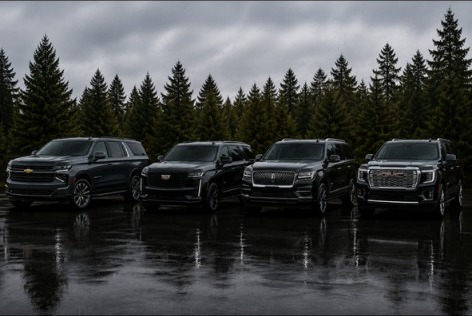
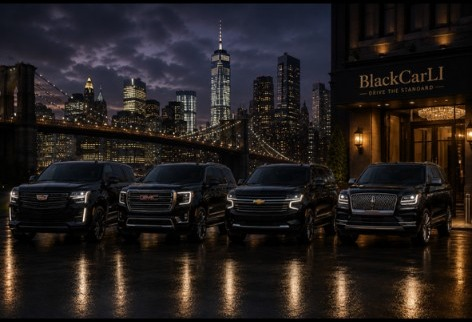
Add live address autocomplete, fix footer service links, refresh fleet imagery
- New /api/geocode route proxies OpenStreetMap Nominatim so the quote
  form's pickup/dropoff fields now suggest real addresses as you type
- Footer service links now deep-link to the matching section on
  /services (e.g. Weddings & Events -> /services#weddings-events)
  instead of all pointing at the generic /services URL
- Swapped in the client's newly provided branded fleet lineup photos
  for the sedan and SUV cards

diff --git a/src/components/AddressInput.tsx b/src/components/AddressInput.tsx
@@ -1,0 +1,114 @@
+"use client";
+
+import { useEffect, useRef, useState } from "react";
+import { MapPin, Loader2 } from "lucide-react";
+
+type Suggestion = { id: number; label: string };
+
+export default function AddressInput({
+  name,
+  value,
+  onChange,
+  placeholder,
+  required,
+}: {
+  name: string;
+  value: string;
+  onChange: (value: string) => void;
+  placeholder?: string;
+  required?: boolean;
+}) {
+  const [suggestions, setSuggestions] = useState<Suggestion[]>([]);
+  const [open, setOpen] = useState(false);
+  const [loading, setLoading] = useState(false);
+  const containerRef = useRef<HTMLDivElement>(null);
+  const debounceRef = useRef<ReturnType<typeof setTimeout> | null>(null);
+  const skipNextFetch = useRef(false);
+
+  useEffect(() => {
+    const onClickOutside = (e: MouseEvent) => {
+      if (containerRef.current && !containerRef.current.contains(e.target as Node)) {
+        setOpen(false);
+      }
+    };
+    document.addEventListener("mousedown", onClickOutside);
+    return () => document.removeEventListener("mousedown", onClickOutside);
+  }, []);
+
+  useEffect(() => {
+    if (skipNextFetch.current) {
+      skipNextFetch.current = false;
+      return;
+    }
+    if (debounceRef.current) clearTimeout(debounceRef.current);
+
+    const query = value.trim();
+    debounceRef.current = setTimeout(async () => {
+      if (query.length < 3) {
+        setSuggestions([]);
+        setLoading(false);
+        return;
+      }
+      setLoading(true);
+      try {
+        const res = await fetch(`/api/geocode?q=${encodeURIComponent(query)}`);
+        const data = await res.json();
+        setSuggestions(data.results ?? []);
+        setOpen(true);
+      } catch {
+        setSuggestions([]);
+      } finally {
+        setLoading(false);
+      }
+    }, query.length < 3 ? 0 : 400);
+
+    return () => {
+      if (debounceRef.current) clearTimeout(debounceRef.current);
+    };
+  }, [value]);
+
+  const handleSelect = (label: string) => {
+    skipNextFetch.current = true;
+    onChange(label);
+    setSuggestions([]);
+    setOpen(false);
+  };
+
+  return (
+    <div ref={containerRef} className="relative">
+      <input
+        type="text"
+        name={name}
+        required={required}
+        value={value}
+        autoComplete="off"
+        onChange={(e) => onChange(e.target.value)}
+        onFocus={() => suggestions.length > 0 && setOpen(true)}
+        placeholder={placeholder}
+        className="luxury-input w-full px-4 py-3 text-sm"
+      />
+      {loading && (
+        <Loader2
+          size={14}
+          className="animate-spin text-[#C9A84C] absolute right-4 top-1/2 -translate-y-1/2"
+        />
+      )}
+      {open && suggestions.length > 0 && (
+        <ul className="absolute z-20 top-full left-0 right-0 mt-1.5 max-h-64 overflow-y-auto bg-[#161616] border border-[#2A2A2A] rounded-lg shadow-xl">
+          {suggestions.map((s) => (
+            <li key={s.id}>
+              <button
+                type="button"
+                onClick={() => handleSelect(s.label)}
+                className="w-full flex items-start gap-2.5 text-left px-4 py-3 text-sm text-[#CCCCCC] hover:bg-[#1E1A0A] hover:text-[#C9A84C] transition-colors border-b border-[#2A2A2A] last:border-b-0"
+              >
+                <MapPin size={14} className="text-[#C9A84C] shrink-0 mt-0.5" />
+                <span className="leading-snug">{s.label}</span>
+              </button>
+            </li>
+          ))}
+        </ul>
+      )}
+    </div>
+  );
+}

diff --git a/src/app/api/geocode/route.ts b/src/app/api/geocode/route.ts
@@ -1,0 +1,52 @@
+import { NextResponse } from "next/server";
+
+// Proxies address search to OpenStreetMap's Nominatim service so the browser
+// never has to call it directly (Nominatim requires a descriptive User-Agent,
+// which browsers won't let client-side fetch() set).
+export async function GET(req: Request) {
+  const { searchParams } = new URL(req.url);
+  const q = searchParams.get("q")?.trim();
+
+  if (!q || q.length < 3) {
+    return NextResponse.json({ results: [] });
+  }
+
+  const params = new URLSearchParams({
+    format: "jsonv2",
+    q,
+    addressdetails: "0",
+    limit: "5",
+    countrycodes: "us",
+    // Bias results toward the NYC / Long Island / CT / NJ service area.
+    viewbox: "-74.4,41.3,-71.7,40.4",
+    bounded: "0",
+  });
+
+  try {
+    const res = await fetch(`https://nominatim.openstreetmap.org/search?${params}`, {
+      headers: {
+        "User-Agent": "BLACKCARLI-website/1.0 (contact: sglimo646@gmail.com)",
+        "Accept-Language": "en",
+      },
+      // Nominatim's free tier is small — cache identical queries briefly.
+      next: { revalidate: 60 },
+    });
+
+    if (!res.ok) {
+      return NextResponse.json({ results: [] });
+    }
+
+    const data = await res.json();
+    const results = Array.isArray(data)
+      ? data.map((r: { place_id: number; display_name: string }) => ({
+          id: r.place_id,
+          label: r.display_name,
+        }))
+      : [];
+
+    return NextResponse.json({ results });
+  } catch (err) {
+    console.error("Geocode error:", err);
+    return NextResponse.json({ results: [] });
+  }
+}

diff --git a/src/app/services/page.tsx b/src/app/services/page.tsx
@@ -25,6 +25,7 @@ export const metadata: Metadata = {
 
 const services = [
   {
+    slug: "airport",
     icon: Plane,
     title: "Airport Transportation",
     subtitle: "JFK · LaGuardia · Newark",
@@ -37,6 +38,7 @@ const services = [
     ],
   },
   {
+    slug: "corporate",
     icon: Building2,
     title: "Corporate Transportation",
     subtitle: "For Businesses & Executives",
@@ -49,6 +51,7 @@ const services = [
     ],
   },
   {
+    slug: "point-to-point",
     icon: MapPinned,
     title: "Point-to-Point",
     subtitle: "One Rate, One Ride",
@@ -61,6 +64,7 @@ const services = [
     ],
   },
   {
+    slug: "hourly",
     icon: CalendarDays,
     title: "Hourly / As-Directed",
     subtitle: "Your Driver, Your Schedule",
@@ -73,6 +77,7 @@ const services = [
     ],
   },
   {
+    slug: "weddings-events",
     icon: Heart,
     title: "Weddings & Events",
     subtitle: "Arrive in Style",
@@ -142,7 +147,11 @@ export default function ServicesPage() {
             {services.map((s) => {
               const Icon = s.icon;
               return (
-                <div key={s.title} className="luxury-card p-8 flex flex-col">
+                <div
+                  key={s.title}
+                  id={s.slug}
+                  className="luxury-card p-8 flex flex-col scroll-mt-28"
+                >
                   <div className="w-12 h-12 rounded-xl bg-[#1E1A0A] flex items-center justify-center mb-5">
                     <Icon size={22} className="text-[#C9A84C]" />
                   </div>

diff --git a/src/components/QuoteForm.tsx b/src/components/QuoteForm.tsx
@@ -11,6 +11,7 @@ import {
   Loader2,
 } from "lucide-react";
 import { SITE, hasPhone } from "@/lib/site";
+import AddressInput from "@/components/AddressInput";
 
 const serviceTypes = [
   { value: "airport", label: "Airport Transfer", icon: Plane },
@@ -222,28 +223,24 @@ export default function QuoteForm() {
           <label className="block text-xs font-medium text-[#999] mb-2 tracking-wide">
             Pickup Location <span className="text-red-500">*</span>
           </label>
-          <input
-            type="text"
+          <AddressInput
             name="pickup"
             required
             value={form.pickup}
-            onChange={handleChange}
+            onChange={(value) => setForm((prev) => ({ ...prev, pickup: value }))}
             placeholder="123 Main St, Garden City, NY"
-            className="luxury-input w-full px-4 py-3 text-sm"
           />
         </div>
         <div>
           <label className="block text-xs font-medium text-[#999] mb-2 tracking-wide">
             Destination <span className="text-red-500">*</span>
           </label>
-          <input
-            type="text"
+          <AddressInput
             name="dropoff"
             required
             value={form.dropoff}
-            onChange={handleChange}
+            onChange={(value) => setForm((prev) => ({ ...prev, dropoff: value }))}
             placeholder="JFK International Airport"
-            className="luxury-input w-full px-4 py-3 text-sm"
           />
         </div>
       </div>

diff --git a/src/components/Footer.tsx b/src/components/Footer.tsx
@@ -3,11 +3,11 @@ import { Phone, Mail, MapPin } from "lucide-react";
 import { SITE, hasPhone } from "@/lib/site";
 
 const services = [
-  "Airport Transfers",
-  "Corporate Travel",
-  "Point-to-Point",
-  "Hourly / As-Directed",
-  "Weddings & Events",
+  { label: "Airport Transfers", slug: "airport" },
+  { label: "Corporate Travel", slug: "corporate" },
+  { label: "Point-to-Point", slug: "point-to-point" },
+  { label: "Hourly / As-Directed", slug: "hourly" },
+  { label: "Weddings & Events", slug: "weddings-events" },
 ];
 
 const quickLinks = [
@@ -41,12 +41,12 @@ export default function Footer() {
             </h3>
             <ul className="space-y-3">
               {services.map((s) => (
-                <li key={s}>
+                <li key={s.slug}>
                   <Link
-                    href="/services"
+                    href={`/services#${s.slug}`}
                     className="text-sm text-[#999] hover:text-[#C9A84C] transition-colors"
                   >
-                    {s}
+                    {s.label}
                   </Link>
                 </li>
               ))}
